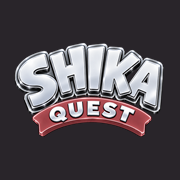
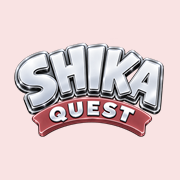
淡いピンクのPWAアイコンと王冠付きゴミキングを反映（1.44）

diff --git a/css/plabusters.css b/css/plabusters.css
@@ -244,7 +244,7 @@ body.pb-game #scr-plabusters.active { display: flex; flex-direction: column; }
 #scr-plabusters .pb-panel h2::after { display: none; }
 #scr-plabusters .pb-panel h2 { font-size: 20px; margin: 2px 0 8px; }
 .pb-panel #pbReadyBack { display: none; } /* The toolbar already provides the same way back. */
-.pb-shell .pb-monster.type-boss { width: min(60%, 250px, 72cqh); }
+.pb-shell .pb-monster.type-boss { width: min(60%, 250px, var(--boss-width-limit, 72cqh)); }
 .pb-shell.pb-done .pb-hud, .pb-shell.pb-done .pb-gauge, .pb-shell.pb-done .pb-live { display: none; }
 .pb-shell.pb-done .pb-stage { flex: 1; min-height: 60px; max-height: 220px; }
 .pb-done .pb-reward { width: auto; height: 85%; aspect-ratio: 1; top: 50%; }
@@ -255,6 +255,8 @@ body.pb-game #scr-plabusters.active { display: flex; flex-direction: column; }
 #scr-plabusters .pb-result h2 { font-size: 17px; margin: 2px 0 4px; }
 .pb-result .btn { display: inline-flex; width: calc(50% - 4px); padding: 8px 4px; min-height: 44px; font-size: 12px; }
 @media(max-height:700px) {
+  .pb-stage.boss-mode .pb-banner.tap { font-size: 22px; line-height: 1.1; padding: 4px 12px; }
+  .pb-stage.boss-mode .pb-banner.tap small { font-size: 10px; line-height: 1.2; }
   .pb-btn { min-height: 60px; padding: 3px 2px; }
   .pb-btn img { height: 30px; }
   .pb-adult-ico { font-size: 25px; line-height: 30px; }

diff --git a/index.html b/index.html
@@ -7,10 +7,10 @@
   <meta name="description" content="はまべの ゴミを ひろって、うみの ようせいを そだてよう。親子で参加するビーチクリーンイベント用のアプリです。">
   <meta name="theme-color" content="#fbfaf6">
   <link rel="manifest" href="manifest.json">
-  <link rel="icon" href="icons/favicon-32.png?v=1.43" type="image/png" sizes="32x32">
-  <link rel="icon" href="icons/favicon-16.png?v=1.43" type="image/png" sizes="16x16">
-  <link rel="icon" href="icons/favicon-48.png?v=1.43" type="image/png" sizes="48x48">
-  <link rel="apple-touch-icon" href="icons/apple-touch-icon.png?v=1.43" sizes="180x180">
+  <link rel="icon" href="icons/favicon-32.png?v=1.44" type="image/png" sizes="32x32">
+  <link rel="icon" href="icons/favicon-16.png?v=1.44" type="image/png" sizes="16x16">
+  <link rel="icon" href="icons/favicon-48.png?v=1.44" type="image/png" sizes="48x48">
+  <link rel="apple-touch-icon" href="icons/apple-touch-icon.png?v=1.44" sizes="180x180">
   <meta name="application-name" content="しかクエ">
   <meta name="mobile-web-app-capable" content="yes">
   <meta name="apple-mobile-web-app-capable" content="yes">

diff --git a/js/plabusters-art.js b/js/plabusters-art.js
@@ -60,10 +60,11 @@
   // かいじゅう 1たい。m … js/plabusters-engine.js の monster
   function monster(m, mood) {
     if (m.type === 'boss') {
-      const villain = m.kind === 'b_bag' ? 'devil' : 'bandit';
-      return `<div class="pb-monster type-boss" data-id="${m.id}" data-kind="${m.kind}">
+      const bag = m.kind === 'b_bag';
+      const ratio = bag ? '348 / 462' : '288 / 481';
+      return `<div class="pb-monster type-boss" data-id="${m.id}" data-kind="${m.kind}" style="--boss-width-limit:${bag ? 51 : 40}cqh">
         <span class="pb-tag boss">${m.name}</span>
-        <div class="pb-mon-body" style="aspect-ratio:280 / 250"><img class="pb-mon-img pb-villain" src="assets/plabusters/boss-${villain}.svg" alt="" draggable="false"></div>
+        <div class="pb-mon-body" style="aspect-ratio:${ratio}"><img class="pb-mon-img pb-boss-art" src="assets/plabusters/boss-${bag ? 'bag' : 'bottle'}-king.svg" alt="" draggable="false"></div>
         <div class="pb-hp" aria-hidden="true">${"<i></i>".repeat(m.hp)}</div></div>`;
     }
     const sp = sprite(m.kind);

diff --git a/service-worker.js b/service-worker.js
@@ -16,7 +16,7 @@
  * 動画は 少しずつ（Range で）読まれるため、ここで まとめて 返すと iPhone で 再生 できない ことが ある。
  * 圏外の ときは 動画が 読めず、いままでの 絵（beach.webp。ここで 保存している）の まま になる。
  */
-const APP_VERSION = "1.43";
+const APP_VERSION = "1.44";
 const CACHE = "bct-" + APP_VERSION;
 const FILES = [
   "./",
@@ -27,8 +27,8 @@ const FILES = [
   "css/truck-shoot.css",
   "css/plabusters.css",
   "assets/plabusters/reward-box-v1.webp",
-  "assets/plabusters/boss-devil.svg",
-  "assets/plabusters/boss-bandit.svg",
+  "assets/plabusters/boss-bag-king.svg",
+  "assets/plabusters/boss-bottle-king.svg",
   "assets/truck-shoot/coast-inland-v1.webp",
   "assets/truck-shoot/recycling-truck-v1.webp",
   "css/collection.css",

diff --git a/js/plabusters-engine.js b/js/plabusters-engine.js
@@ -46,8 +46,8 @@
     b_rope: "ロープ へびー",
   };
   const BOSSES = [
-    { kind: "b_bag", name: "ビニール デビル" },
-    { kind: "b_bottle", name: "ボトル どろぼう" },
+    { kind: "b_bag", name: "ビニールぶくろ キング" },
+    { kind: "b_bottle", name: "ペットボトル キング" },
   ];
   const DANGER = { kind: "b_glass", name: "われびん かいじゅう" };
 

diff --git a/README.md b/README.md
@@ -1,5 +1,7 @@
 # SHIKA QUEST
 
+**1.44（2026-10-22）**：PWA・Appleホーム画面用アイコンの背景を決定案Cの淡いピンク（#F9E3E3）へ変更。大型かいじゅうは元のゴミ画像を活かした「ビニールぶくろ キング」「ペットボトル キング」に変更しました。袋はニヤリ、ボトルはムスッとした表情で、王冠をそれぞれの持ち手・キャップに合わせています。得点・報酬・10回タップのルールは従来どおりです。
+
 **1.43（2026-10-21）**：★3限定の「シュートめいじん賞」（カメ）・「はまべのヒーロー賞」（ヤドカリ）を追加。PWA名は「しかクエ」に変更。初回はスポットライトを浴びた3匹から選び、タップでジャンプ、説明付きの「はい／いいえ」で確認します。バスターズは画面内に収まるレイアウトに変更し、大型かいじゅうを悪魔・どろぼうの姿に描き分けました。
 
 **1.42（2026-10-21）**：アプリ名をSHIKA QUESTに統一し、銀色・落ち着いた赤のロゴとPWAアイコンを採用。SHIKA COLLECTIONと同じ増穂浦の写真を背景に、3体のようせい → フェードアウト → ロゴ → スタートのオープニングを追加しました。スタート後は既存の育成データを読み込み、初回はたまご選択、育成中はホームへ進みます。[詳細](docs/shika-quest-opening.md)

diff --git a/docs/quest-144.md b/docs/quest-144.md
@@ -1,0 +1,8 @@
+# しかクエ 1.44
+
+- 決定したアイコン案C：背景 #F9E3E3。既存の透明ロゴから `tools/export-pink-pwa-icons.ps1` で192px・512px・maskable 512px・Apple 180pxを書き出す。maskableは円形トリミングの安全域を維持。小さいSQファビコンは継続。
+- 大型かいじゅうは承認済み `boss-kings-20261021` のSVGをそのまま採用。元の袋／ボトルのラスター画像と表情、王冠が単一SVGの座標にまとまり、アニメーション中も位置がずれない。
+- 袋はニヤリ顔と幅広王冠、ボトルはムスッとした顔と18度傾けた王冠。画像全体の縦横比を反映し、狭いゲーム画面でも王冠とHPが収まるよう上限幅を調整。
+- サービスワーカーは1.44。新しい2画像を事前キャッシュし、アイコンURLの版を更新。PWA名は「しかクエ」を維持。
+
+検証：既存のゲーム・更新テスト22件と、`tests/e2e/quest-143.mjs` のスマホ表示／10回タップ／保存／オフライン確認が成功。同画面テストに320×568でのキング全体の収まり、TAP表示と王冠が重ならないこと、4種類のアイコン背景色・不透明度の確認を追加。
